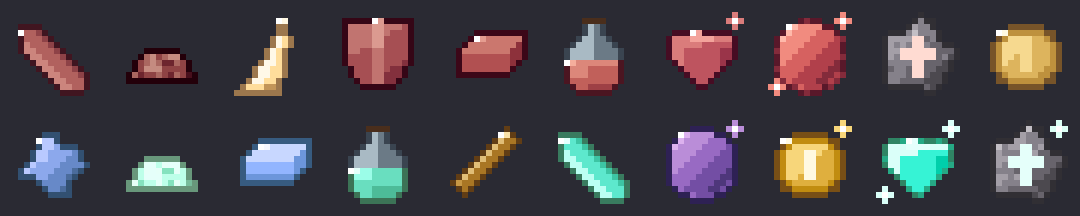
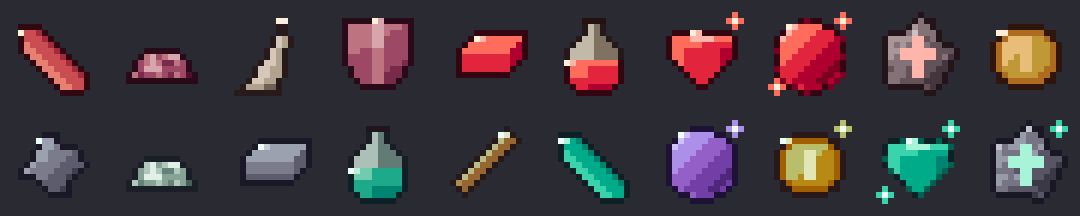
Set color harmony: region palettes (shared ink/light, roles, rarity chroma), vanilla ramp study, harmony metrics; RPG materials recolored
Claude-Session: https://claude.ai/code/session_01RZiBpWFfgu4nEGsq4idzrg

diff --git a/atelier/mc/palette.js b/atelier/mc/palette.js
@@ -1,0 +1,74 @@
+// 세트 팔레트(색 조화) — docs/research/color-harmony.md 실측 규칙
+//  문제: 아이템마다 기준색을 따로 고르면 램프가 제각각이라 세트가 따로 논다(외곽선·하이라이트·회색이 전부 다른 색).
+//  해법: 지역(세트)마다 "공유 잉크(가장 어두운 색) + 공유 빛(가장 밝은 색) + 역할 3~5개"를 정하고, 모든 재질 램프를 그 사이에 건다.
+//   · 역할: primary(60%) · secondary(30%) · accent(≤10%, 최상위 등급·룬·빛) · neutral(금속·뼈·돌·유리, 지역 색으로 물든 저채도)
+//   · 램프 6단 + spec: 명도는 고정 사다리(어둠 0.24 → 밝음 0.86, 바닐라 L 0.2~1.0), 중간 톤 채도가 가장 높고(바닐라 유색 0.16~0.26)
+//     어둠은 공유 그림자 색상 쪽으로, 밝음은 공유 빛 색상 쪽으로 기운다(바닐라 금·블레이즈·꿀: 어둠 −15~−45°, 밝음 +20~+35°)
+//   · 외곽선(0단)은 공유 잉크와 섞어서 세트 전체가 같은 "선 색"을 공유한다
+import { hexToOklch, oklch, mix } from '../color.js';
+
+const LADDER = [0.25, 0.37, 0.48, 0.59, 0.71, 0.84];           // 6단 명도(OKLab L). 외곽선 0단은 이 값보다 잉크 쪽으로 더 내려간다
+const CHROMA_SHAPE = [0.55, 0.85, 1, 1, 0.82, 0.5];            // 중간 톤이 가장 진하다(어둠·밝음은 55~85%)
+const PULL = [1, 0.7, 0.3, 0, 0.45, 0.85];                     // 어둠 쪽은 그림자 색상으로, 밝음 쪽은 빛 색상으로 끌리는 정도
+
+const hd = (a, b) => ((b - a + 540) % 360) - 180;
+const lean = (h, target, k, cap) => (h + Math.max(-cap, Math.min(cap, hd(h, target) * k)) + 360) % 360;
+
+/**
+ * 재질 램프 하나. hue = 재질 색상(도), chroma = 중간 톤 최고 채도(OKLCH), lift = 명도 사다리 이동(뼈·밀랍 +0.06, 쇠 −0.04),
+ * shift = 그림자·빛 색상 쪽으로 기우는 정도(바닐라: 빨강·청록·보라 ≈0, 금·블레이즈·꿀 −15~−45°/+20~+35°)
+ * set = { ink, light, shadowHue, lightHue } (regionPalette가 채움)
+ */
+export function setRamp(set, { hue, chroma, lift = 0, shift = 0.5 }) {
+  const R = LADDER.map((L, i) => {
+    const toward = i < 3 ? set.shadowHue : set.lightHue;
+    const h = lean(hue, toward, PULL[i] * Math.min(1, shift * 1.4), (i < 3 ? 22 : 30) * shift);   // shift: 빨강·청록처럼 색상이 곧 정체성인 재질은 작게(0.2~0.4), 금·황동·불은 크게(0.8~1)
+    return oklch(Math.min(0.95, L + lift * (i === 0 ? 0.3 : 1)), chroma * CHROMA_SHAPE[i], h);
+  });
+  R[0] = mix(R[0], set.ink, 0.45);                              // 외곽선은 세트 잉크와 공유
+  return { R, spec: set.light };
+}
+
+/**
+ * 지역 팔레트. spec = {
+ *   ink:'#1a0812', light:'#fff1dc', shadowHue:350, lightHue:75,
+ *   roles:{ primary:{hue:24,chroma:0.21}, secondary:{hue:352,chroma:0.15}, accent:{hue:80,chroma:0.17}, bone:{hue:75,chroma:0.035,lift:0.08}, metal:{hue:20,chroma:0.03} } }
+ * 돌·유리·코르크 같은 공용 재질도 지역 잉크·빛으로 만든다(회색이 따로 놀지 않게).
+ */
+export function regionPalette(spec) {
+  const set = { ink: spec.ink, light: spec.light, shadowHue: spec.shadowHue, lightHue: spec.lightHue };
+  const ramps = {};
+  for (const [k, r] of Object.entries(spec.roles)) ramps[k] = setRamp(set, r);
+  const { H: inkH } = hexToOklch(spec.ink);
+  ramps.rock ??= setRamp(set, { hue: inkH, chroma: 0.025, lift: -0.02 });
+  ramps.glass ??= setRamp(set, { hue: hexToOklch(spec.light).H, chroma: 0.03, lift: 0.08 });
+  ramps.cork ??= setRamp(set, { hue: 55, chroma: 0.06, lift: -0.04 });
+  return { ...set, ramps, roles: spec.roles };
+}
+
+/** 세트 조화 측정: 아이콘 PixelCanvas 목록 → 색 수, 공유 색 비율, 색상 군 수, 최고 채도, 외곽선·명도 폭 */
+export function harmonyReport(icons) {
+  const use = new Map();
+  const per = icons.map(c => {
+    const cols = [...c.colors().keys()];
+    cols.forEach(h => use.set(h, (use.get(h) ?? 0) + 1));
+    const lc = cols.map(h => hexToOklch(h));
+    return { Lmin: Math.min(...lc.map(o => o.L)), Lmax: Math.max(...lc.map(o => o.L)), Cmax: Math.max(...lc.map(o => o.C)) };
+  });
+  const all = [...use.keys()];
+  // 색상 군: 채도 0.04 이상 색을 면적 무관하게 25° 안쪽끼리 묶는다
+  const hues = all.map(h => hexToOklch(h)).filter(o => o.C >= 0.04).map(o => o.H).sort((a, b) => a - b);
+  let groups = 0; for (let i = 0; i < hues.length; i++) if (i === 0 || hues[i] - hues[i - 1] > 25) groups++;
+  if (hues.length > 1 && groups > 1 && 360 - hues.at(-1) + hues[0] <= 25) groups--;
+  const avg = a => a.reduce((s, v) => s + v, 0) / a.length;
+  const sd = a => Math.sqrt(avg(a.map(v => (v - avg(a)) ** 2)));
+  return {
+    icons: icons.length,
+    colors: all.length,
+    shared: +(all.filter(h => use.get(h) >= 2).length / all.length).toFixed(2),
+    hueGroups: groups,
+    peakChroma: +avg(per.map(p => p.Cmax)).toFixed(3),
+    outlineL: +avg(per.map(p => p.Lmin)).toFixed(2), outlineSd: +sd(per.map(p => p.Lmin)).toFixed(2),
+    valueSpan: +avg(per.map(p => p.Lmax - p.Lmin)).toFixed(2),
+  };
+}

diff --git a/atelier/mc/items.js b/atelier/mc/items.js
@@ -115,14 +115,19 @@ const F = {
 };
 export const FAMILIES = Object.keys(F);
 
-const GLASS = ['#3a4450', '#6b7a86', '#a9bac4', '#dfe9ee'], CORK = ['#4a2e1c', '#7a5236', '#a8774f'];
-const ROCK = fineRamp('#77727c', { steps: 6, dL: 0.1, hueShift: 10, chroma: 0.015 });
+const GLASS0 = ['#3a4450', '#6b7a86', '#a9bac4', '#dfe9ee'], CORK0 = ['#4a2e1c', '#7a5236', '#a8774f'];
+const ROCK0 = fineRamp('#77727c', { steps: 6, dL: 0.1, hueShift: 10, chroma: 0.015 });
 
 /**
  * 아이콘 하나. tier(1~5): 1 기본 · 2 반짝임 1px 추가 · 3 가장자리 빛(밝은 단계 강화) · 4 별 반짝임 · 5 별 반짝임 2개 + 테두리 한 단 밝게
  */
-export function icon(family, { color = '#c0283c', tier = 1, chroma, seed = 1 } = {}) {
-  const R = materialRamp(color, { chroma: chroma ?? (0.1 + tier * 0.012) });
+export function icon(family, { color = '#c0283c', tier = 1, chroma, seed = 1, ramp, pal } = {}) {
+  // ramp = setRamp(...) 결과({R, spec})를 주면 세트 팔레트를 쓴다(권장, palette.js). 없으면 예전 방식(색 하나 → 독립 램프)
+  const R = ramp ? ramp.R.slice() : materialRamp(color, { chroma: chroma ?? (0.1 + tier * 0.012) });
+  const SPEC = ramp ? ramp.spec : W;
+  const GLASS = pal ? pal.ramps.glass.R.filter((_, i) => i % 2 === 0 || i === 5).slice(0, 4) : GLASS0;
+  const CORK = pal ? pal.ramps.cork.R.slice(0, 5).filter((_, i) => i === 0 || i === 2 || i === 4) : CORK0;
+  const ROCK = pal ? pal.ramps.rock.R : ROCK0;
   const c = new PixelCanvas(16), rand = rnd(seed * 97 + tier);
   const val = new Map();
   for (let y = 0; y < 16; y++) for (let x = 0; x < 16; x++) {
@@ -149,9 +154,9 @@ export function icon(family, { color = '#c0283c', tier = 1, chroma, seed = 1 } =
   // 반짝임: 실루엣 왼쪽 위 안쪽의 가장 밝은 픽셀 근처 1~2px을 순백으로
   let best = null;
   for (const [i, k] of val) { if (typeof k !== 'number') continue; const x = i % 16, y = (i / 16) | 0; const s = k - (x + y) * 0.08; if (!best || s > best.s) best = { x, y, s }; }
-  if (best && family !== 'dust') { c.set(best.x, best.y, W); if (tier >= 2 && has(best.x + 1, best.y)) c.set(best.x + 1, best.y, R[5]); }
+  if (best && family !== 'dust') { c.set(best.x, best.y, SPEC); if (tier >= 2 && has(best.x + 1, best.y)) c.set(best.x + 1, best.y, R[5]); }
   // 등급 장식: 4~5등급은 실루엣 밖 대각선 위치에 4갈래 별 반짝임
-  const star = (sx, sy) => { c.set(sx, sy, W); for (const [dx, dy] of [[1, 0], [-1, 0], [0, 1], [0, -1]]) if (!has(sx + dx, sy + dy)) c.set(sx + dx, sy + dy, R[4]); };
+  const star = (sx, sy) => { c.set(sx, sy, SPEC); for (const [dx, dy] of [[1, 0], [-1, 0], [0, 1], [0, -1]]) if (!has(sx + dx, sy + dy)) c.set(sx + dx, sy + dy, R[4]); };
   if (tier >= 4) star(13, 2);
   if (tier >= 5) star(2, 13);
   return c;

diff --git a/atelier/mc/rpgitems.js b/atelier/mc/rpgitems.js
@@ -3,6 +3,7 @@
 import fs from 'fs';
 import path from 'path';
 import { icon, RARITY } from './items.js';
+import { setRamp } from './palette.js';
 
 const esc = s => String(s).replace(/\\/g, '\\\\').replace(/"/g, '\\"');
 const loreLines = d => [
@@ -39,8 +40,17 @@ export function writePack(dir, ns, items, { description = 'RPG materials' } = {}
 }
 
 /** 정의 목록 → 아이콘 생성 + 명령어 */
-export function buildItems(ns, defs) {
-  return defs.map((d, i) => ({ ...d, icon: icon(d.family, { color: d.color, tier: d.tier, seed: i + 1 }), give: giveCommands(ns, d) }));
+// pal(palette.js regionPalette)을 주면 d.color는 역할 이름('primary'·'secondary'·'accent'·'bone'·'metal' …)이다 → 세트 색 조화가 보장된다.
+// 같은 역할 = 같은 램프(바닐라처럼 재질 하나에 팔레트 하나). 등급은 채도 2단계 + 밝기·반짝임·별 장식으로 나타낸다.
+export function buildItems(ns, defs, pal) {
+  return defs.map((d, i) => {
+    let opt = { color: d.color, tier: d.tier, seed: i + 1 };
+    if (pal) {
+      const role = pal.roles[d.color]; if (!role) throw new Error(`역할 없음: ${d.color} (${d.id})`);
+      opt = { ...opt, pal, ramp: setRamp(pal, d.tier <= 2 ? { ...role, chroma: role.chroma * 0.72 } : role) };   // 채도 = 희귀도: 1~2등급은 바랜 원재료 램프, 3등급 이상은 순수 램프(역할당 램프 2개만 → 세트가 색을 공유)
+    }
+    return { ...d, icon: icon(d.family, opt), give: giveCommands(ns, d) };
+  });
 }
 
 /**

diff --git a/docs/research/color-harmony.md b/docs/research/color-harmony.md
@@ -1,0 +1,48 @@
+# 세트 색 조화(아이템·재료 아이콘) — 실측과 규칙
+
+## 1. 문제(이전 결과 실측)
+- 아이템마다 기준색을 따로 골랐다. 그래서 지역 10개 아이콘에 색이 58개 쓰였고, 2개 이상 아이콘이 함께 쓰는 색은 2~5%뿐이었다.
+- 외곽선 명도가 아이템마다 달랐다(평균 L 0.31~0.44, 편차 0.11~0.12). 밝은 재질(뼈·촛농·결정)은 외곽선이 L 0.53~0.63까지 떠서 실루엣이 약했다.
+- 최고 채도가 평균 0.11로 낮았다. 바닐라 유색 재료는 0.13~0.26이고, 빨강 계열은 0.16~0.26이다.
+- 유령 저택에 백랍(파랑 H 260, C 0.11)과 황동·갈색이 따로 놀았다. 지역과 무관한 색상이 세트 안에 섞였다.
+
+## 2. 바닐라 실측(item/*.png 45종, OKLCH)
+| 항목 | 값 |
+|---|---|
+| 명도 폭 | 가장 어두운 L 0.18~0.45 → 가장 밝은 L 0.8~1.0 |
+| 가장 어두운 색 | 채도가 살아 있는 어둠이다(#2d0000, #4e1116, #052463, #002d00 / C 0.07~0.14). 회색 검정이 아니다 |
+| 색상 이동(빨강·청록·보라·초록) | 어둠·밝음 모두 ±5° 안. 색상이 곧 재질의 정체성이다(redstone, nether_wart, diamond, lapis, slime) |
+| 색상 이동(금·블레이즈·꿀·레진·마그마) | 어둠 −15~−60°(빨강 쪽), 밝음 +20~+35°(노랑 쪽) |
+| 가장 밝은 색 | 대부분 순백 또는 따뜻한 흰색(#fffdd5, #ffffb5). 하이라이트는 한 빛으로 수렴한다 |
+| 채도 분포 | 중간 톤이 가장 진하다. 밝은 쪽은 0.03~0.13으로 떨어진다 |
+
+## 3. 규칙(atelier/mc/palette.js)
+1. **지역 팔레트 먼저, 아이템은 나중에.** 지역마다 다음을 정한다.
+   - **공유 잉크:** 가장 어두운 색. 모든 외곽선이 이 색과 45% 섞인다.
+   - **공유 빛:** 반짝임과 별 장식에 쓰는 한 가지 색.
+   - **그림자 색상과 빛 색상.**
+2. **역할 3~5개만 쓴다.**
+   - primary: 약 60%
+   - secondary: 약 20~30%
+   - accent: 10% 이하. 최상위 등급·화폐·룬에만 쓴다
+   - neutral: 금속·뼈·촛농. 지역 색상으로 물든 저채도(C 0.03~0.05)
+   - 아이템 정의에는 hex를 쓰지 않고 역할 이름을 쓴다.
+3. **명도 사다리는 고정한다(L 0.25 → 0.84) + 재질별 lift.** 외곽선 L은 세트 전체에서 0.21±0.01로 같다.
+4. **채도는 중간 톤에서 가장 높게 한다.** 빨강 0.22, 청록 0.17, 보라 0.16, 금 0.17. 어둠은 55~85%, 밝음은 50%로 낮춘다.
+5. **색상 이동 정도(shift)는 재질마다 다르다.** 빨강·청록·보라는 0.25~0.3(거의 고정), 금·황동은 0.9~1(어둠은 붉게, 밝음은 노랗게).
+6. **채도 = 희귀도.** 1~2등급은 바랜 원재료 램프(채도 ×0.72)를 쓰고, 3등급 이상은 순수 램프를 쓴다. 그래서 역할마다 램프가 2개뿐이고 세트가 색을 공유한다.
+7. **공용 재질도 지역 색으로 만든다.** 돌(강화석)은 잉크 색상, 유리는 빛 색상, 코르크는 따뜻한 저채도다. 회색이 따로 놀지 않는다.
+
+## 4. 결과(harmonyReport)
+| 지역 | 색 수 | 공유 비율 | 최고 채도 평균 | 외곽선 L(편차) | 명도 폭 |
+|---|---|---|---|---|---|
+| 피의 땅 이전 | 58 | 0.02 | 0.111 | 0.31 (0.12) | 0.65 |
+| 피의 땅 이후 | 37 | 0.30 | 0.152 | 0.21 (0.01) | 0.72 |
+| 유령 저택 이전 | 58 | 0.05 | 0.114 | 0.44 (0.11) | 0.56 |
+| 유령 저택 이후 | 48 | 0.21 | 0.102 | 0.22 (0.01) | 0.76 |
+
+유령 저택 이후의 최고 채도 평균이 낮다. 백랍·촛농 같은 중성 재질이 3개 있기 때문이다. 유색 재질만 보면 0.15~0.17이다.
+
+**남은 약점:**
+- 박쥐 송곳니(뼈)는 잉크 색상에 물들어 회색빛이다.
+- 등급 1~2의 바랜 램프는 작은 칸에서 다소 비슷해 보인다. 형태로 구분된다.

diff --git a/.claude/skills/minecraft-modeling/SKILL.md b/.claude/skills/minecraft-modeling/SKILL.md
@@ -192,3 +192,13 @@ export default {
 - **천은 세로 옷주름:** 3~4px 간격으로 능선(+1)과 골(−1)을 둔다. 결은 25~35%로 넣는다.
 - **검사:** 맨몸, 바닐라 철 갑옷과 같은 스킨·같은 각도로 앞뒤를 렌더해서 머리 크기, 얼굴 노출, 형태를 비교한다(`armorcmp` 방식).
 - **흐림 금지(docs/research/color-vividness.md):** 유색 재질은 면적 가중 채도 11 이상(바닐라 12~15)이다. `fineRamp(base, {chroma:0.10~0.19})`로 중간 톤 채도를 직접 정한다. 무채색이면 L 75 이상이나 40 이하로 확실히 정한다. 재질 명도 폭은 30 이상이다. 다른 직업과 주 색상이 60° 이상 떨어져야 한다.
+
+## 세트 색 조화 — 아이템·재료 세트 (docs/research/color-harmony.md)
+- 아이템마다 색을 따로 고르지 않는다. 지역(세트)마다 `regionPalette({ink, light, shadowHue, lightHue, roles})`를 먼저 정한다. 아이템은 역할 이름(primary·secondary·accent·neutral)으로 색을 고른다(`atelier/mc/palette.js`).
+- **공유 잉크:** 모든 외곽선이 같은 어둠을 쓴다. 세트 외곽선 L 0.21±0.01을 지킨다.
+- **공유 빛:** 반짝임과 별 장식은 같은 한 가지 색이다.
+- **역할 비율:** primary 60%, secondary 20~30%, accent 10% 이하(최상위·화폐·룬). 중성 재질(금속·뼈·돌·유리)은 지역 색상으로 물든 C 0.03~0.05다.
+- **채도:** 중간 톤이 가장 진하다(빨강 0.22, 청록 0.17, 금 0.17. 바닐라 유색 0.13~0.26).
+- **색상 이동:** 빨강·청록·보라는 거의 고정(shift 0.25~0.3), 금·황동은 어둠이 붉게, 밝음이 노랗게(shift 0.9~1) 기운다.
+- **채도 = 희귀도:** 1~2등급은 바랜 램프, 3등급 이상은 순수 램프.
+- **검증:** `harmonyReport(icons)`로 확인한다. 공유 색 비율 ≥0.2, 색상 군 ≤4, 외곽선 편차 ≤0.02를 목표로 한다.

diff --git a/docs/research/minecraft-items.md b/docs/research/minecraft-items.md
@@ -52,4 +52,5 @@
 ## 4. Atelier 구현
 - `atelier/mc/items.js`: 형태 12종(gem, shard, ingot, dust, orb, nugget, rod, fang, scale, essence, coin, stone) × 등급 1~5. 위 실측 문법을 따른다.
 - `atelier/mc/rpgitems.js`: 정의 목록 → 아이콘 + 리소스팩 + /give(1.21.4·1.21.5+) + 게임 화면 미리보기(인벤토리·툴팁, Unifont).
-- `rpg/materials.mjs`: 시연(피의 땅·유령 저택 각 10종).
+- `atelier/mc/palette.js`: 지역 팔레트(공유 잉크·빛 + 역할) → 세트 색 조화. 규칙과 실측은 `color-harmony.md`.
+- `rpg/materials.mjs`: 시연(피의 땅·유령 저택 각 10종). 아이템 색은 hex가 아니라 역할 이름이다.
